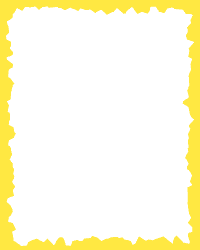
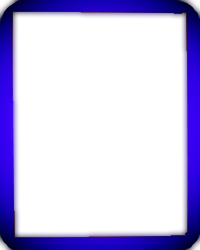
first card designs

Changed region(s): [[0.0, 0.0, 1.0, 1.0]]

diff --git a/client/src/pages/Game/Game.css b/client/src/pages/Game/Game.css
@@ -51,9 +51,9 @@ img{
   margin:10px;
 }
 .playingcard-box{
-  background:black;
-  background-image: url(border2.png);
-  border: 14px solid black;
+  border: 5px solid black;
+  /* animation: 3s pulseBorder infinite; */
+  box-shadow: 0px 0px 10px 7px rgb(255, 0, 0), 0px 0px 10px 7px #fcfcfc;
   width: 95%;
   max-height: 100%;
   margin: 0 auto;
@@ -76,8 +76,19 @@ img{
   margin: 0;
   padding: 0;
   text-align: center;
-  color: black;
+  color: #40f436;
   width: 100%;
-  background: rgb(11, 59, 243);
+  background: rgb(4, 4, 4);
   position: absolute;
+}
+@keyframes pulseBorder {
+  0% {
+    border-color: red;
+  }
+  50%{
+    border-color: black
+  }
+  100%{
+    border-color: red;
+  }
 }

diff --git a/client/src/pages/Game/Game.js b/client/src/pages/Game/Game.js
@@ -1,6 +1,7 @@
 import React, { Component } from "react";
 import { Link } from "react-router-dom";
 import "./Game.css";
+import border from "./border1.jpg";
 import API from "../../utils/API.js";
 const url = "http://localhost:3001/api/players";
 
